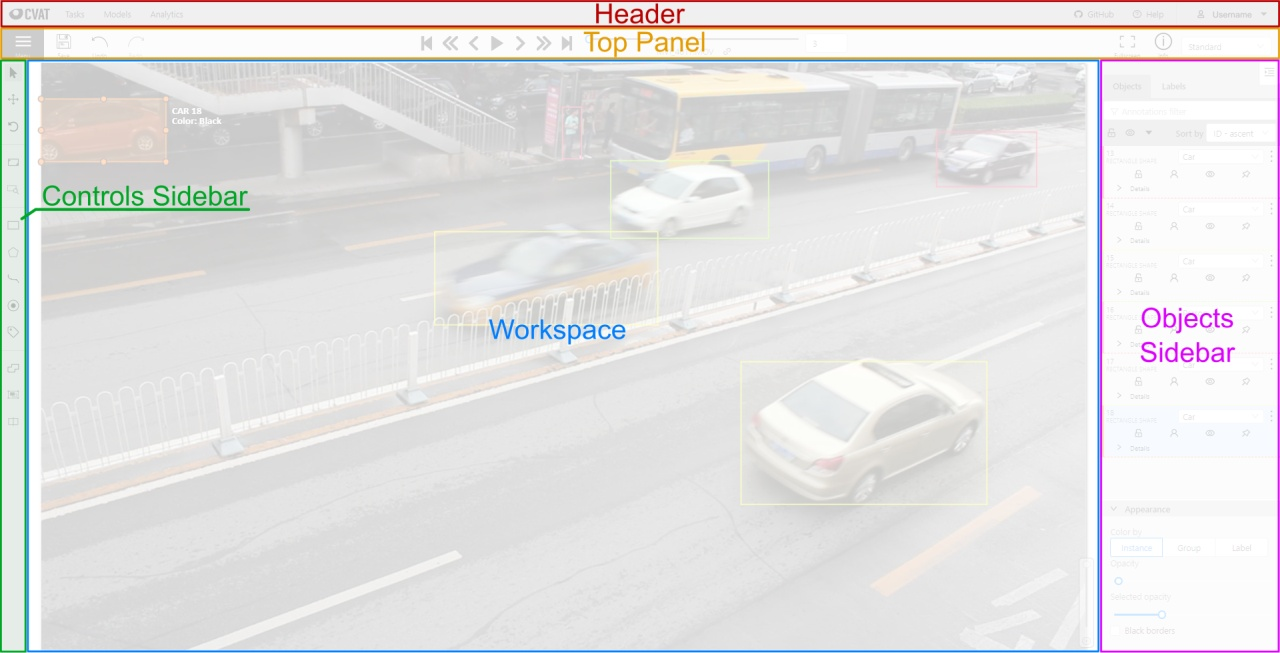
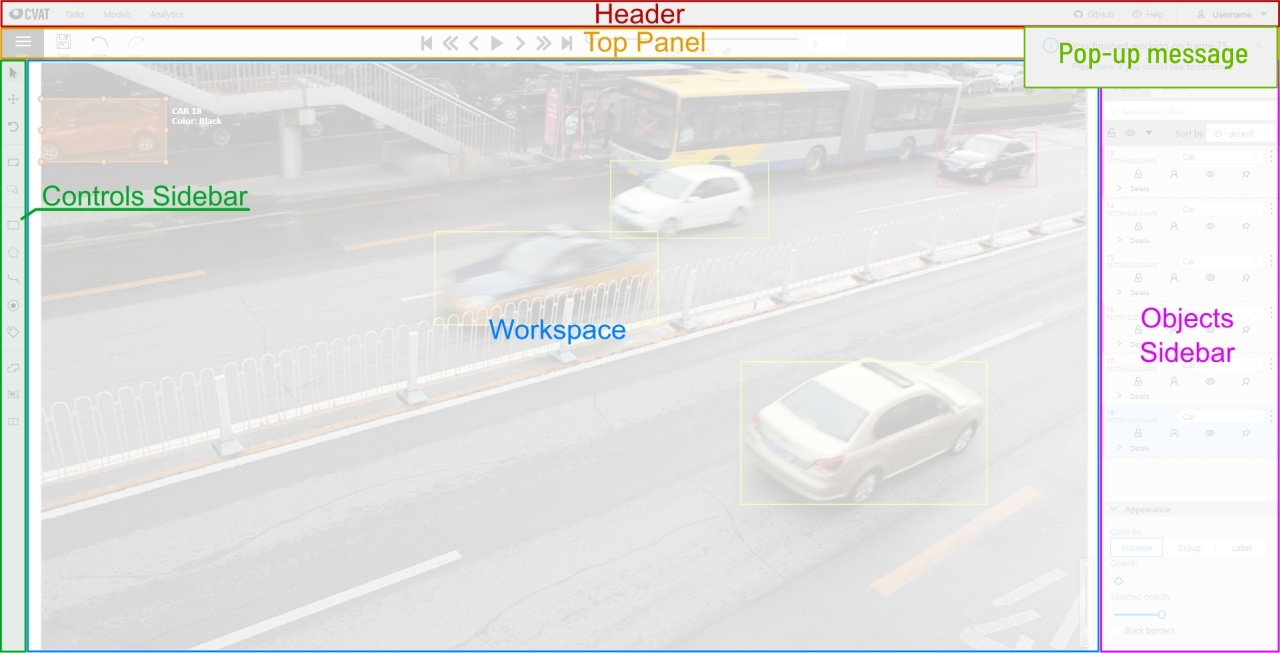
Update documentation. Added information about pop-up messages (#4316)
* update interface.md

* fix mistakes

* fix mistake

Changed region(s): [[0.7812, 0.0306, 1.0, 0.1531]]

diff --git a/site/content/en/docs/manual/basics/interface.md b/site/content/en/docs/manual/basics/interface.md
@@ -3,14 +3,53 @@ title: 'Interface of the annotation tool'
 linkTitle: 'Interface'
 weight: 5
 ---
+
+## Main user interface
+
 The tool consists of:
 
 - `Header` - pinned header used to navigate CVAT sections and account settings;
-- `Top panel` — contains navigation buttons, main functions and menu access;
-- `Workspace` — space where images are shown;
-- `Controls sidebar` — contains tools for navigating the image, zoom,
-  creating shapes and editing tracks (merge, split, group)
-- `Objects sidebar` — contains label filter, two lists:
+
+- [`Top panel`](/docs/manual/basics/top-panel/) — contains navigation buttons, main functions and menu access;
+
+- [`Workspace`](/docs/manual/basics/workspace/) — space where images are shown;
+
+- [`Controls sidebar`](/docs/manual/basics/controls-sidebar/) — contains tools for navigating the image, zoom,
+  creating shapes and editing tracks (merge, split, group);
+
+- [`Objects sidebar`](/docs/manual/basics/objects-sidebar/) — contains label filter, two lists:
   objects (on the frame) and labels (of objects on the frame) and appearance settings.
 
 ![](/images/image034_detrac.jpg)
+
+## Pop-up messages
+
+![Pop-up message](/images/pop-up_message.jpg)
+
+In CVAT, you'll receive pop-up messages in the upper-right corner, on any page.
+Pop-up messages can contain useful information, links, or error messages.
+
+### Information message
+
+Informational messages inform about the end of the auto-annotation process.
+[Learn more about auto-annotation](/docs/manual/advanced/automatic-annotation/).
+
+### Jump Suggestion Messages
+
+#### Open a task
+
+After creating a task, you can immediately open it by clicking `Open task`.
+[Learn more about creating a task](/docs/manual/basics/creating_an_annotation_task/).
+
+#### Continue to the frame on which the work on the job is finished
+
+When you open a job that you previously worked on, you will receive pop-up messages with a proposal
+to go to the frame that was visited before closing the tab.
+
+### Error Messages
+
+If you perform impossible actions, you may receive an error message.
+The message may contain information about the error
+or a prompt to open the browser console (shortcut `F12`) for information.
+If you encounter a bug that you can't solve yourself,
+you can [create an issue on GitHub](https://github.com/openvinotoolkit/cvat/issues/new).
